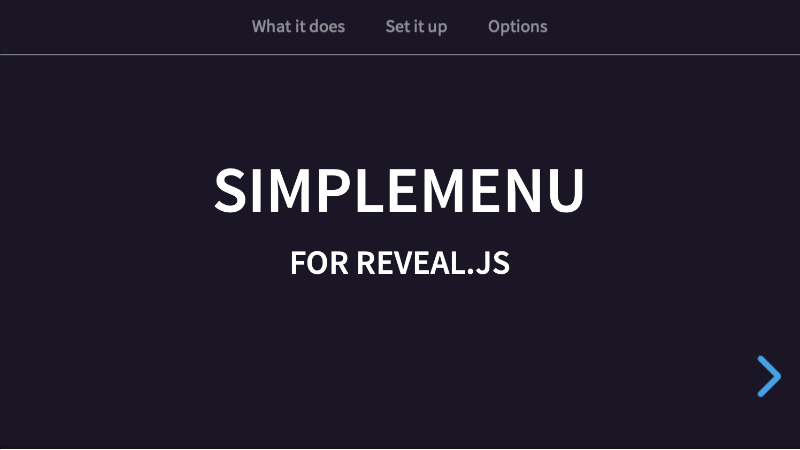
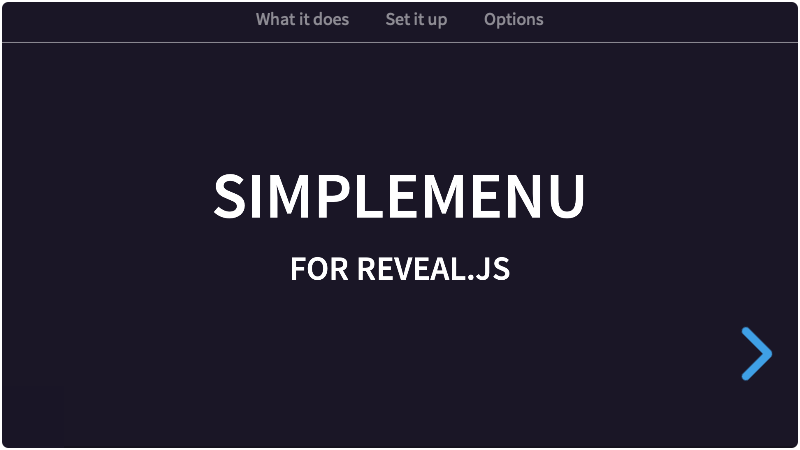
Fix links in demo

diff --git a/demo.html b/demo.html
@@ -8,10 +8,10 @@
     <meta name="author" content="Martinomagnifico">
     <meta name="viewport" content="width=device-width, initial-scale=1.0, maximum-scale=1.0, user-scalable=no">
     <meta http-equiv="X-UA-Compatible" content="IE=edge,chrome=1">
-    <link rel="stylesheet" href="https://cdn.jsdelivr.net/npm/reveal.js/dist/reset.css">
-    <link rel="stylesheet" href="https://cdn.jsdelivr.net/npm/reveal.js/dist/reveal.css">
-    <link rel="stylesheet" href="https://cdn.jsdelivr.net/npm/reveal.js/dist/theme/black.css">
-    <link rel="stylesheet" href="https://cdn.jsdelivr.net/npm/reveal.js/plugin/highlight/monokai.css">
+    <link rel="stylesheet" href="../dist/reset.css">
+    <link rel="stylesheet" href="../dist/reveal.css">
+    <link rel="stylesheet" href="../dist/theme/black.css">
+    <link rel="stylesheet" href="../plugin/highlight/monokai.css">
     <link rel="stylesheet" href="css/demo.css">
     <link rel="stylesheet" href="plugin/simplemenu/simplemenu.css">
 </head>
@@ -70,7 +70,7 @@
                 <section>
                     <h4>HTML Markup</h4>
                     <p class="small">Make anchors in your links to the ID's of your sections. Use the <code>#/anchor</code> notation that Reveal uses.</p>
-                    <pre><code>&lt;div class="menubar"&gt;
+                    <pre><code class="hljs html" data-line-numbers>&lt;div class="menubar"&gt;
     &lt;ul class="menu"&gt;
         &lt;li&gt;
             &lt;a href="#/firstmenuitem"&gt;First menu item&lt;/a&gt;
@@ -177,15 +177,16 @@
                     <h4>Option demos</h4>
                     <ul>
                         <li>Menu with no options set: this demo</li>
-                        <li><a href="demo-bottom.html">Menu at bottom with no options set</a></li>
-                        <li><a href="demo-name.html">Option selectby: 'name'</a></li>
-                        <li><a href="demo-auto.html">Option auto: true</a></li>
+                        <li><a href="https://martinomagnifico.github.io/reveal.js-simplemenu/demo-bottom.html">Menu at bottom with no options set</a></li>
+                        <li><a href="https://martinomagnifico.github.io/reveal.js-simplemenu/demo-name.html">Option selectby: 'name'</a></li>
+                        <li><a href="https://martinomagnifico.github.io/reveal.js-simplemenu/demo-dataname.html">Option selectby: 'data-name'</a></li>
+                        <li><a href="https://martinomagnifico.github.io/reveal.js-simplemenu/demo-auto.html">Option auto: true</a></li>
                     </ul>
                 </section>
             </section>
         </div>
     </div>
-    <script src="https://cdn.jsdelivr.net/npm/reveal.js/dist/reveal.js"></script>
+    <script src="../dist/reveal.js"></script>
     <script src="plugin/simplemenu/simplemenu.js"></script>
     <script src="plugin/highlight/highlight.js"></script>
     <script>

diff --git a/demo-auto.html b/demo-auto.html
@@ -8,10 +8,10 @@
     <meta name="author" content="Martinomagnifico">
     <meta name="viewport" content="width=device-width, initial-scale=1.0, maximum-scale=1.0, user-scalable=no">
     <meta http-equiv="X-UA-Compatible" content="IE=edge,chrome=1">
-    <link rel="stylesheet" href="https://cdn.jsdelivr.net/npm/reveal.js/dist/reset.css">
-    <link rel="stylesheet" href="https://cdn.jsdelivr.net/npm/reveal.js/dist/reveal.css">
-    <link rel="stylesheet" href="https://cdn.jsdelivr.net/npm/reveal.js/dist/theme/black.css">
-    <link rel="stylesheet" href="https://cdn.jsdelivr.net/npm/reveal.js/plugin/highlight/monokai.css">
+    <link rel="stylesheet" href="../dist/reset.css">
+    <link rel="stylesheet" href="../dist/reveal.css">
+    <link rel="stylesheet" href="../dist/theme/black.css">
+    <link rel="stylesheet" href="../plugin/highlight/monokai.css">
     <link rel="stylesheet" href="css/demo.css">
     <link rel="stylesheet" href="plugin/simplemenu/simplemenu.css">
 </head>
@@ -98,7 +98,7 @@ Reveal.initialize({
             </section>
         </div>
     </div>
-    <script src="https://cdn.jsdelivr.net/npm/reveal.js/dist/reveal.js"></script>
+    <script src="../dist/reveal.js"></script>
     <script src="plugin/simplemenu/simplemenu.js"></script>
     <script src="plugin/highlight/highlight.js"></script>
     <script>

diff --git a/demo-dataname.html b/demo-dataname.html
@@ -8,10 +8,10 @@
     <meta name="author" content="Martinomagnifico">
     <meta name="viewport" content="width=device-width, initial-scale=1.0, maximum-scale=1.0, user-scalable=no">
     <meta http-equiv="X-UA-Compatible" content="IE=edge,chrome=1">
-    <link rel="stylesheet" href="https://cdn.jsdelivr.net/npm/reveal.js/dist/reset.css">
-    <link rel="stylesheet" href="https://cdn.jsdelivr.net/npm/reveal.js/dist/reveal.css">
-    <link rel="stylesheet" href="https://cdn.jsdelivr.net/npm/reveal.js/dist/theme/black.css">
-    <link rel="stylesheet" href="https://cdn.jsdelivr.net/npm/reveal.js/plugin/highlight/monokai.css">
+    <link rel="stylesheet" href="../dist/reset.css">
+    <link rel="stylesheet" href="../dist/reveal.css">
+    <link rel="stylesheet" href="../dist/theme/black.css">
+    <link rel="stylesheet" href="../plugin/highlight/monokai.css">
     <link rel="stylesheet" href="css/demo.css">
     <link rel="stylesheet" href="plugin/simplemenu/simplemenu.css">
 </head>
@@ -76,7 +76,7 @@ Reveal.initialize({
             </section>
         </div>
     </div>
-    <script src="https://cdn.jsdelivr.net/npm/reveal.js/dist/reveal.js"></script>
+    <script src="../dist/reveal.js"></script>
     <script src="plugin/simplemenu/simplemenu.js"></script>
     <script src="plugin/highlight/highlight.js"></script>
     <script>

diff --git a/demo-name.html b/demo-name.html
@@ -8,10 +8,10 @@
     <meta name="author" content="Martinomagnifico">
     <meta name="viewport" content="width=device-width, initial-scale=1.0, maximum-scale=1.0, user-scalable=no">
     <meta http-equiv="X-UA-Compatible" content="IE=edge,chrome=1">
-    <link rel="stylesheet" href="https://cdn.jsdelivr.net/npm/reveal.js/dist/reset.css">
-    <link rel="stylesheet" href="https://cdn.jsdelivr.net/npm/reveal.js/dist/reveal.css">
-    <link rel="stylesheet" href="https://cdn.jsdelivr.net/npm/reveal.js/dist/theme/black.css">
-    <link rel="stylesheet" href="https://cdn.jsdelivr.net/npm/reveal.js/plugin/highlight/monokai.css">
+    <link rel="stylesheet" href="../dist/reset.css">
+    <link rel="stylesheet" href="../dist/reveal.css">
+    <link rel="stylesheet" href="../dist/theme/black.css">
+    <link rel="stylesheet" href="../plugin/highlight/monokai.css">
     <link rel="stylesheet" href="css/demo.css">
     <link rel="stylesheet" href="plugin/simplemenu/simplemenu.css">
 </head>
@@ -76,7 +76,7 @@ Reveal.initialize({
             </section>
         </div>
     </div>
-    <script src="https://cdn.jsdelivr.net/npm/reveal.js/dist/reveal.js"></script>
+    <script src="../dist/reveal.js"></script>
     <script src="plugin/simplemenu/simplemenu.js"></script>
     <script src="plugin/highlight/highlight.js"></script>
     <script>

diff --git a/demo-bottom.html b/demo-bottom.html
@@ -8,9 +8,9 @@
     <meta name="author" content="Martinomagnifico">
     <meta name="viewport" content="width=device-width, initial-scale=1.0, maximum-scale=1.0, user-scalable=no">
     <meta http-equiv="X-UA-Compatible" content="IE=edge,chrome=1">
-    <link rel="stylesheet" href="https://cdn.jsdelivr.net/npm/reveal.js/dist/reset.css">
-    <link rel="stylesheet" href="https://cdn.jsdelivr.net/npm/reveal.js/dist/reveal.css">
-    <link rel="stylesheet" href="https://cdn.jsdelivr.net/npm/reveal.js/dist/theme/black.css">
+    <link rel="stylesheet" href="../dist/reset.css">
+    <link rel="stylesheet" href="../dist/reveal.css">
+    <link rel="stylesheet" href="../dist/theme/black.css">
     <link rel="stylesheet" href="css/demo.css">
     <link rel="stylesheet" href="plugin/simplemenu/simplemenu.css">
 </head>
@@ -51,7 +51,7 @@
             </ul>
         </div>
     </div>
-    <script src="https://cdn.jsdelivr.net/npm/reveal.js/dist/reveal.js"></script>
+    <script src="../dist/reveal.js"></script>
     <script src="plugin/simplemenu/simplemenu.js"></script>
     <script src="plugin/highlight/highlight.js"></script>
     <script>

diff --git a/css/demo.css b/css/demo.css
@@ -11,7 +11,8 @@
   opacity: 1; }
 
 .menubar {
-  top: 0; }
+  top: 0;
+  margin-top: -1px; }
 
 .slides ~ .menubar {
   bottom: 0;

diff --git a/README.md b/README.md
@@ -134,7 +134,7 @@ The top-level sections (that should be in the menu) need to have an ID:
 
 #### The auto way
 
-When using the `auto` option (see Configuration), you only need to add an empty menu, and give names to your sections.
+When using the `auto` option (see Configuration), you only need to add an empty menu, and give names to your sections. An ID is then not needed.
 
 ```html
 <div class="menubar">
